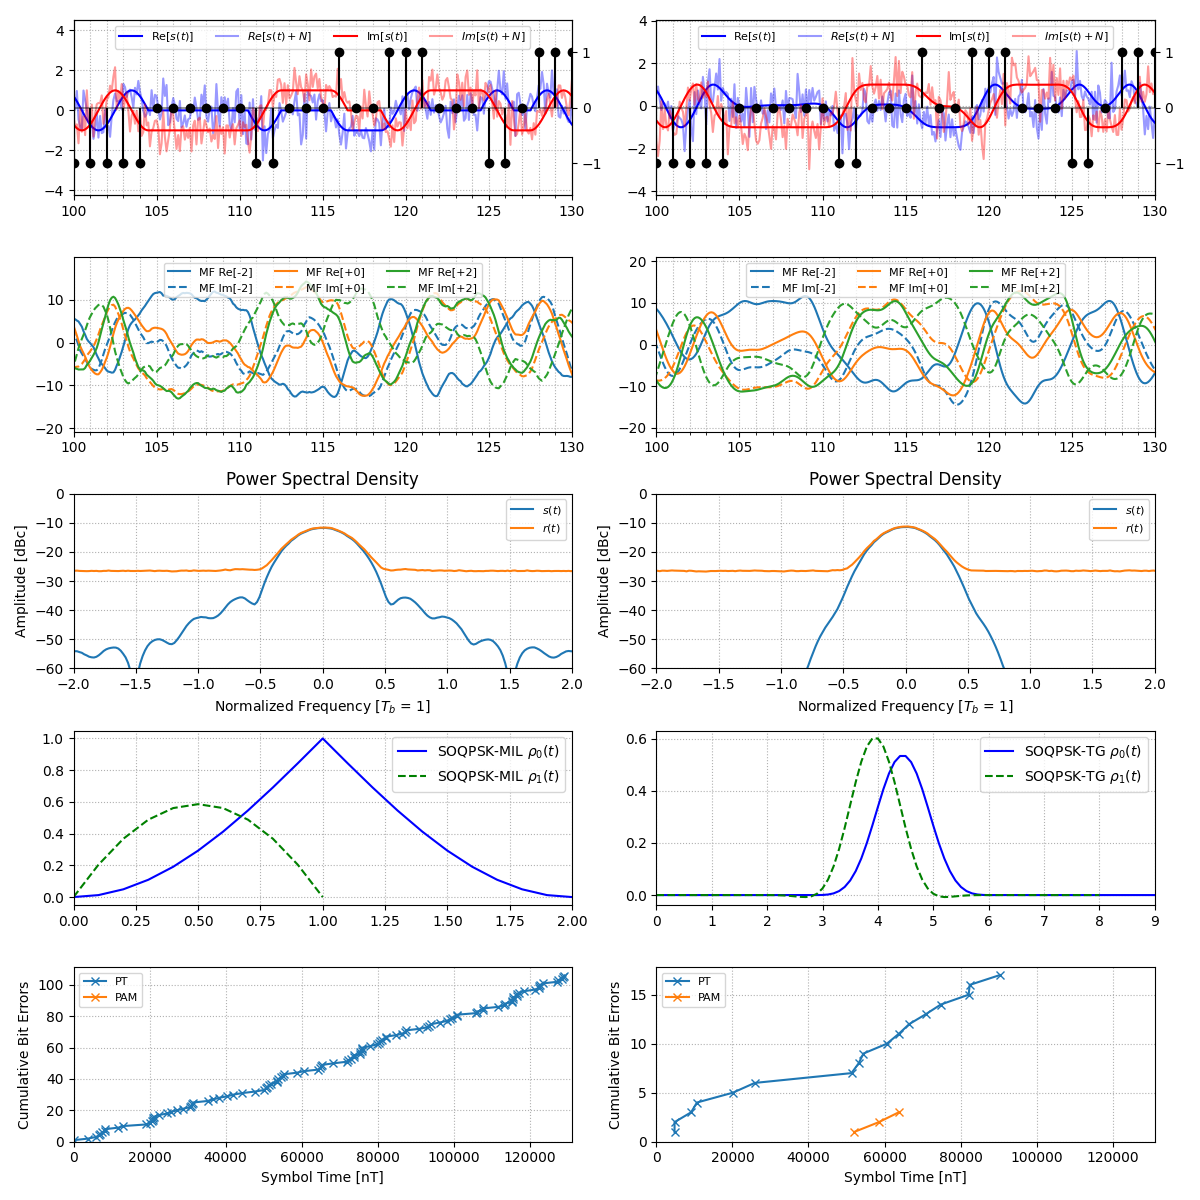
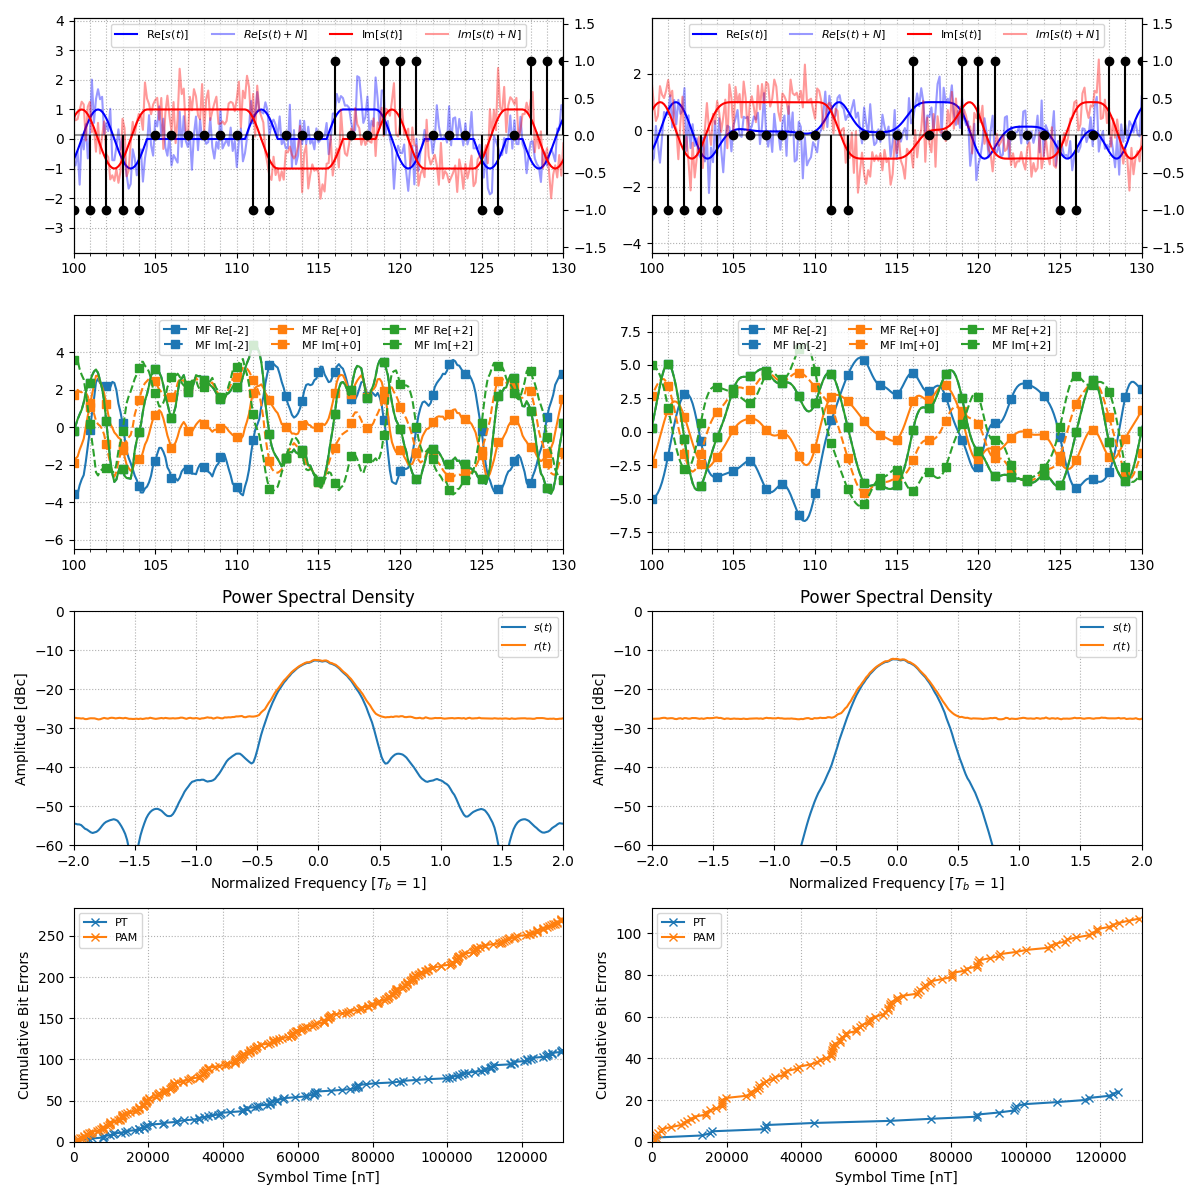
Generate SOQPSK constellation via PAM decomp, use markevery.

Changed region(s): [[0.0, 0.0, 0.9867, 0.9867], [0.8325, 0.8942, 0.9558, 0.925], [0.4317, 0.9558, 0.4625, 0.9867]]

diff --git a/examples/soqpsk_detection.py b/examples/soqpsk_detection.py
@@ -40,7 +40,6 @@ if __name__ == "__main__":
     pulse_pad = 0.5
     ebn0 = 11.2  # Quasonix RDMS has a 1e-5 BER for SOQPSK-TG @ Eb/N0 = 11.2 dB
     sigma = np.sqrt(sps / np.power(10, ebn0 / 10) / 2)
-    P = 4
 
     # Bits of information to transmit
     bit_array = np.unpackbits(DATA_BUFFER)
@@ -50,7 +49,7 @@ if __name__ == "__main__":
     symbols = symbol_precoder(bit_array)
 
     # Create plots and axes
-    fig_eye, iq_axes = plt.subplots(5, 2, figsize=(12, 12), dpi=100)
+    fig_eye, iq_axes = plt.subplots(4, 2, figsize=(12, 12), dpi=100)
     for ax in iq_axes.flatten():
         ax.grid(which="both", linestyle=":")
 
@@ -65,16 +64,15 @@ if __name__ == "__main__":
 
     # Simulate the following SOQPSK Waveforms
     pulses_colors_labels = (
-        (freq_pulse_soqpsk_mil(sps=sps), "MIL", 1 / P),
-        (freq_pulse_soqpsk_tg(sps=sps), "TG", 1 / P),
+        (freq_pulse_soqpsk_mil(sps=sps), "MIL", 1 / 4),
+        (freq_pulse_soqpsk_tg(sps=sps), "TG", 1 / 4),
     )
     for i, (pulse_filter, label, mod_index) in enumerate(pulses_colors_labels):
         # Assign axes
         iq_ax: Axes = iq_axes[0, i]
         mf_ax: Axes = iq_axes[1, i]
         psd_ax: Axes = iq_axes[2, i]
-        rho_ax: Axes = iq_axes[3, i]
-        errors_ax: Axes = iq_axes[4, i]
+        errors_ax: Axes = iq_axes[3, i]
 
         # Modulate the input symbols
         normalized_time, modulated_signal = cpm_modulate(
@@ -84,7 +82,7 @@ if __name__ == "__main__":
             sps=sps,
         )
         noise = generate_complex_awgn(sigma, modulated_signal.size, rng)
-        modulated_signal[:] *= np.exp(+3j * np.pi / 4)
+        modulated_signal[:] *= np.exp(-1j * np.pi / 4)
         freq_pulses = np.angle(modulated_signal[1:] * modulated_signal.conj()[1:]) * sps / np.pi
 
         # Received signal
@@ -165,10 +163,9 @@ if __name__ == "__main__":
         for sym_idx in range(num_symbols):
             for k in range(k_max):
                 # Zero-pad all to length d_max for alignment
-                rk = np.concatenate((rho[k], np.zeros(d_max - rho[k].size)))
                 mf_outputs_pam[sym_idx, :] += np.convolve(
                     received_signal,
-                    rk,
+                    rho[k],
                     mode="same",
                 ) * np.conj(pseudo_symbols[k, sym_idx])
             sym = 2 * (sym_idx - 1)
@@ -177,6 +174,8 @@ if __name__ == "__main__":
                 mf_outputs_pam[sym_idx, :].real,
                 label=f"MF Re[{sym:+}]",
                 linestyle="-",
+                marker="s",
+                markevery=(0 if label == "TG" else sps, sps),
             )
             mf_ax.plot(
                 normalized_time,
@@ -184,6 +183,8 @@ if __name__ == "__main__":
                 label=f"MF Im[{sym:+}]",
                 color=line.get_color(),
                 linestyle="--",
+                marker="s",
+                markevery=(0 if label == "TG" else sps, sps),
             )
 
         # Initialize FSM
@@ -237,18 +238,6 @@ if __name__ == "__main__":
                 label=detector_type,
             )
 
-        # Plot Rho pulses used for PAM Approximation
-        for k, rho_k, fmt in zip(range(k_max), rho, ("b-", "g--")):
-            t = np.linspace(0, (rho_k.size - 1) / sps, num=rho_k.size)
-            rho_ax.plot(
-                t,
-                rho_k,
-                fmt,
-                label=rf"SOQPSK-{label} $\rho_{k}(t)$",
-            )
-
-        rho_ax.set_xlim(0, (max(rho, key=np.size).size - 1) / sps)
-
     for ax in iq_axes[0, :]:
         ax: Axes
         ax.grid(which="both", linestyle=":")
@@ -275,11 +264,7 @@ if __name__ == "__main__":
         psd_ax.xaxis.set_major_locator(MultipleLocator(0.5))
         psd_ax.grid(which="both", linestyle=":")
 
-    for rho_ax in iq_axes[3, :]:
-        rho_ax.grid(which="both", linestyle=":")
-        rho_ax.legend()
-
-    for ax in iq_axes[4, :]:
+    for ax in iq_axes[3, :]:
         ax.grid(which="both", linestyle=":")
         ax.set_ylabel("Cumulative Bit Errors")
         ax.set_xlabel("Symbol Time [nT]")

diff --git a/examples/soqpsk_pam.py b/examples/soqpsk_pam.py
@@ -31,7 +31,7 @@ DATA_BUFFER = np.packbits(DATA_GEN.generate_sequence())
 if __name__ == "__main__":
     logging.basicConfig(level=logging.INFO)
     # Constants
-    sps = 10
+    sps = 20
 
     # Bits of information to transmit
     bit_array = np.unpackbits(DATA_BUFFER)
@@ -73,8 +73,26 @@ if __name__ == "__main__":
         freq_pulses = np.angle(modulated_signal[1:] * modulated_signal.conj()[1:]) * sps / np.pi
 
         # Display transmitted and received signal in the time domain
-        iq_ax.plot(normalized_time, modulated_signal.real, "b-", alpha=1.0, label=r"CPM-I")
-        iq_ax.plot(normalized_time, modulated_signal.imag, "r-", alpha=1.0, label=r"CPM-Q")
+        iq_ax.plot(
+            normalized_time,
+            modulated_signal.real,
+            "b-",
+            alpha=1.0,
+            label=r"CPM-I",
+            marker="o",
+            markersize=5,
+            markevery=(int(sps / 2), sps),
+        )
+        iq_ax.plot(
+            normalized_time,
+            modulated_signal.imag,
+            "r-",
+            alpha=1.0,
+            label=r"CPM-Q",
+            marker="o",
+            markersize=5,
+            markevery=(int(sps / 2), sps),
+        )
 
         pulse_ax = iq_ax.twinx()
         pulse_ax.stem(
@@ -171,13 +189,22 @@ if __name__ == "__main__":
     pam_approx[:] *= np.exp(1j * np.pi / 4)
     qpsk_esque_signal[sps:] += pam_approx.real[:-sps]
     qpsk_esque_signal[:] += pam_approx.imag * 1j
+
+    fig_const, ax_const = plt.subplots(1, figsize=(4, 4), dpi=100)
+    ax_const.set_xlim([-2, 2])
+    ax_const.set_ylim([-2, 2])
+    ax_const.set_title("SOQPSK PAM Approximation Constellation")
     fig_const = plot_constellation(
         signal=qpsk_esque_signal[sps * 2 - pam_delay :: sps * 2][1:],
         n=8192,
-        alpha=0.1,
+        axis=ax_const,
+        linestyle=" ",
         marker="s",
     )
 
+    images_dir = Path(__file__).parent.parent / "images"
     fig_eye.tight_layout()
-    fig_eye.savefig(Path(__file__).parent.parent / "images" / "soqpsk_laurent_decomp.png")
+    fig_eye.savefig(images_dir / "soqpsk_laurent_decomp.png")
+    fig_const.tight_layout()
+    fig_const.savefig(images_dir / "soqpsk_pam_k2_constellation.png")
     plt.show()

diff --git a/waveforms/viz/constellation.py b/waveforms/viz/constellation.py
@@ -25,7 +25,7 @@ _CONSTELLATION_DEFAULT_KWARGS = {
 
 class Line2DKwargs(TypedDict):
     linewidth: float | None = None
-    linestyle: float | None = None
+    linestyle: str | None = None
     color: str | None = None
     gapcolor: str | None = None
     marker: str | MarkerStyle | None = None
